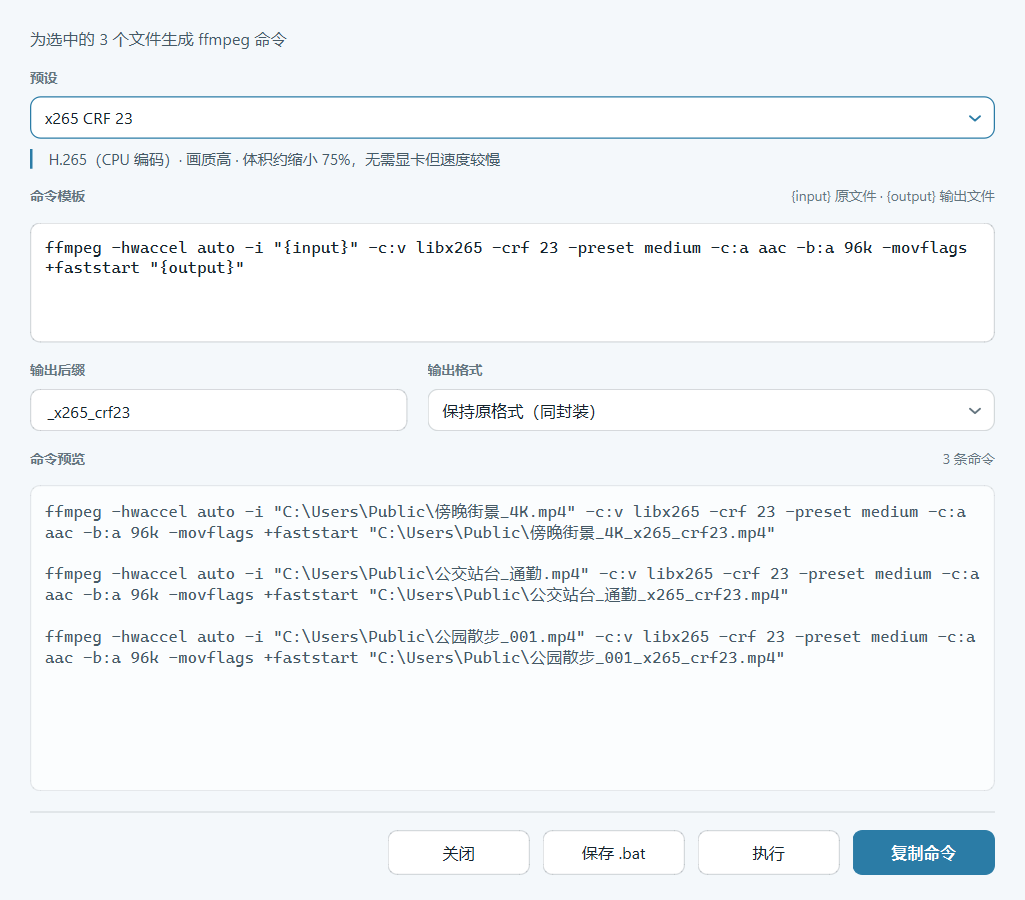
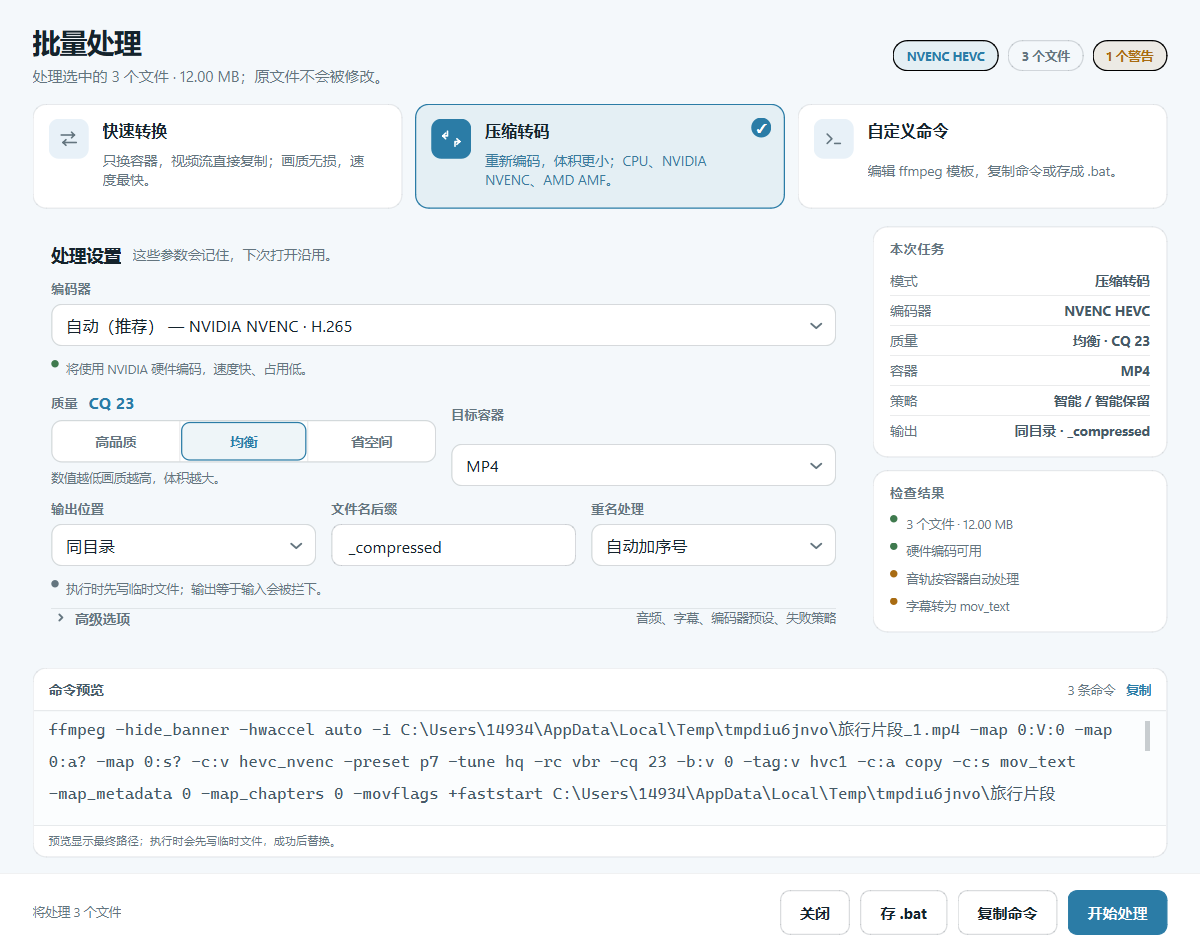
Document custom labels and batch processing in the README

diff --git a/README.md b/README.md
@@ -10,12 +10,12 @@
 
 <p align="center">
   <b>Find the clip you need by what's in it.</b><br>
-  Scan a folder, auto-tag video and audio on your own machine, filter by content, and turn the selection into batch FFmpeg commands.
+  Scan a folder, auto-tag video and audio on your own machine (GPU or CPU), filter by content, and process the selection with FFmpeg — remux, compress, or run your own command.
 </p>
 
 <p align="center">
   <b>按画面内容，找到你要的那条素材。</b><br>
-  扫描文件夹，本机给每个视频、音频打内容标签，按标签筛选，再把勾选的文件变成批量 FFmpeg 命令。
+  扫描文件夹，本机给每个视频、音频打内容标签（GPU 或 CPU），按标签筛选，再用 FFmpeg 批量处理：转封装、压缩，或跑你自己的命令。
 </p>
 
 <p align="center">
@@ -28,7 +28,7 @@
 </p>
 
 <p align="center">
-  <img src="docs/screenshots/demo.gif" alt="Scan a folder, tag clips with local AI, filter by tag, and generate batch FFmpeg commands" width="880">
+  <img src="docs/screenshots/demo.gif" alt="Scan a folder, tag clips with local AI, filter by tag, and process the selection with FFmpeg" width="880">
 </p>
 
 <p align="center">
@@ -37,8 +37,9 @@
 
 **Why people use it / 为什么用它**
 
-- **Your archive becomes searchable.** Tag clips by people, vehicles, pets, food, screens, scenes and shot size — locally with YOLOv8n, or through any OpenAI-compatible vision model. / **素材库变得可搜索**：人物、车辆、宠物、食物、屏幕、场景、景别，本地模型或任意 OpenAI 格式视觉模型都能打标。
-- **From "find it" to "done" in one window.** Filter by tag, tick what you need, and copy / save / run FFmpeg commands without writing a single filter string. / **从找到到处理只用一个窗口**：按标签筛选，勾选后直接复制、保存或执行 FFmpeg 命令。
+- **Your archive becomes searchable.** Tag clips by people, vehicles, pets, food, screens, scenes and shot size — locally with YOLOv8n (GPU or CPU), or through any OpenAI-compatible vision model. / **素材库变得可搜索**：人物、车辆、宠物、食物、屏幕、场景、景别，本地模型（GPU 或 CPU）或任意 OpenAI 格式视觉模型都能打标。
+- **From "find it" to "done" in one window.** Filter by tag, tick what you need, then remux, compress with CPU / NVIDIA NVENC / AMD AMF, or run a custom FFmpeg template — with a command preview, live progress and a result summary. / **从找到到处理只用一个窗口**：按标签筛选，勾选后直接转封装、用 CPU / NVIDIA NVENC / AMD AMF 压缩，或跑自定义 FFmpeg 模板；每一步都有命令预览、实时进度和结果汇总。
+- **Labels that speak your workflow.** Add up to 10 of your own labels — `踢足球`, `露营`, `王者荣耀` — and hybrid / cloud tagging will look for them. Local-only mode stays completely offline. / **标签按你的工作流来**：最多添加 10 个自定义标签（踢足球、露营、王者荣耀……），混合 / 全云端识别会专门找它们；纯本地模式仍然完全离线。
 - **Nothing leaves your machine unless you say so.** Scanning and local tagging are offline; uploads wait behind a confirmation card, and the API key is DPAPI-encrypted. / **素材默认不出本机**：扫描与本地识别全程离线，上传前必须确认，API Key 用 DPAPI 加密。
 
 > If this saves you time, a ⭐ helps other editors find it. / 如果它帮你省了时间，点个 ⭐ 能让更多剪辑同行看到。
@@ -51,9 +52,9 @@
 | --- | --- |
 | ![Main window, light theme](docs/screenshots/main-light.png) | ![Main window, dark theme](docs/screenshots/main-dark.png) |
 
-| Batch FFmpeg commands / 批量命令 | Settings · tags / 设置·标签 |
+| Batch processing / 批量处理 | Settings · tags / 设置·标签 |
 | --- | --- |
-| ![Batch command dialog](docs/screenshots/batch.png) | ![Settings, tags tab](docs/screenshots/settings.png) |
+| ![Batch processing dialog](docs/screenshots/batch.png) | ![Settings, tags tab](docs/screenshots/settings.png) |
 
 Real screenshots from the running app (local AI, 14 demo files). / 截图直接来自运行中的程序（本地 AI 识别，14 个演示文件）。
 
@@ -75,17 +76,75 @@ Keep the `ffmpeg` folder next to `MediaFilter.exe`; the app finds it automatical
 
 - Recursively scans a folder and reads real metadata with `ffprobe`: size, duration, video and audio bitrate, format, modification time.
 - Shows everything in a sortable, filterable table with checkboxes and live totals (file count, total duration, total size).
-- **Optional AI tagging** — label videos by what is actually in them: people, screens, food, pets, vehicles, scenery, shot size, technical traits. Run it fully local with YOLOv8n (8 of the 26 built-in tags: people, vehicles, cats, dogs, food, screens, computers, phones), local-first with a cloud fallback (hybrid), or fully in the cloud (all 26 tags). Results are cached per file.
-- **Batch FFmpeg** — pick an x265 / NVENC preset, then copy the commands, save them as a `.bat`, or run them in place.
-- Format conversion (stream copy or re-encode), TXT report export, light / dark / system themes, Chinese and English UI.
+- **Optional AI tagging** — label videos by what is actually in them: people, screens, food, pets, vehicles, scenery, shot size, technical traits. Local YOLOv8n runs on the GPU through ONNX Runtime DirectML (NVIDIA, AMD and Intel) with a CPU fallback, and recognises 8 of the 26 built-in tags; hybrid keeps the local result and sends only likely candidates to the cloud; cloud mode covers all 26. Cats, dogs and cars can also get colour tags (`黑猫`, `白狗`, `白车`). Your own labels sit alongside the built-ins — see [Custom labels](#custom-labels--自定义标签). Results are cached per file.
+- **Batch processing** — one dialog with three tasks: fast remux, compression (x265 / x264, NVIDIA NVENC, AMD AMF, auto-detected with a CPU fallback) and custom FFmpeg. It previews the exact command for every file, plans collision-safe output paths, shows live progress and summarises successes, failures and size savings. See [Batch processing](#batch-processing--批量处理).
+- TXT report export, light / dark / system themes, Chinese and English UI.
 
 **中文**
 
 - 递归扫描文件夹，用 `ffprobe` 读取真实元数据：大小、时长、音视频码率、格式、修改时间。
 - 一张可排序、可筛选的表格，带勾选和实时统计（文件数、总时长、总大小）。
-- **可选 AI 内容识别** —— 按画面内容打标签：人物、屏幕、食物、宠物、车辆、场景、景别、技术特征。支持纯本地（YOLOv8n，可识别 26 个内置标签中的 8 类：人物、车辆、猫、狗、食物、屏幕、电脑、手机）、本地先筛的混合模式、全云端（26 个标签全覆盖）三种跑法，结果按文件缓存。
-- **批量 FFmpeg** —— 选 x265 / NVENC 预设，复制命令、存成 `.bat`，或直接执行。
-- 格式转换（流拷贝或重编码）、导出 TXT 清单、浅色 / 深色 / 跟随系统主题、中英文界面。
+- **可选 AI 内容识别** —— 按画面内容打标签：人物、屏幕、食物、宠物、车辆、场景、景别、技术特征。本地 YOLOv8n 通过 ONNX Runtime DirectML 跑在显卡上（NVIDIA、AMD、Intel，失败自动回退 CPU），可识别 26 个内置标签中的 8 类；混合模式保留本地结果，只把可能命中的画面送云端；全云端覆盖 26 个标签。猫、狗、车还会带颜色标签（`黑猫`、`白狗`、`白车`）。内置标签之外还能加你自己的标签，见 [自定义标签](#custom-labels--自定义标签)；结果按文件缓存。
+- **批量处理** —— 一个对话框、三种任务：快速转换、压缩转码（x265 / x264、NVIDIA NVENC、AMD AMF，自动检测并支持 CPU 回退）、自定义 FFmpeg。会预览每个文件的实际命令，规划防冲突的输出路径，显示实时进度，结束后汇总成功、失败与体积变化，见 [批量处理](#batch-processing--批量处理)。
+- 导出 TXT 清单、浅色 / 深色 / 跟随系统主题、中英文界面。
+
+## Custom labels / 自定义标签
+
+The 26 built-in tags cover the common cases; custom labels cover the rest — a sport, a trip, a game, a client, a recurring shot. Add them in **Settings → 标签 → 我的标签 → 编辑**, or from the **＋ 我的标签** entry on the upload confirmation card.
+26 个内置标签覆盖常见内容；剩下的用自定义标签补——某项运动、某次旅行、某个游戏、某个客户、某个固定镜头。入口在 **设置 → 标签 → 我的标签 → 编辑**，上传确认卡上的 **＋ 我的标签** 也能直接改。
+
+- **Up to 10 labels, 20 characters each.** Paste a list separated by English or Chinese commas, `、`, semicolons, tabs or newlines; duplicates are removed case-insensitively (the first spelling wins). Drag the handle to reorder. / **最多 10 个，每个 20 字**。可以整段粘贴，用中英文逗号、`、`、分号、制表符或换行分隔；重复项按大小写不敏感去重（保留第一次的写法）。左侧手柄可拖动排序。
+- **Sent to the model exactly as written.** No stemming or merging: `明日方舟` and `明日方舟：终末地` are two independent labels. / **按你写的原样送给模型**，不做合并：`明日方舟` 和 `明日方舟：终末地` 是两个独立标签。
+- **Local mode does not use them.** The on-device YOLOv8n is a closed 8-tag set, so custom labels need hybrid or cloud mode. / **纯本地模式用不到它们**：本机 YOLOv8n 是固定的 8 类闭集，自定义标签需要混合或全云端模式。
+- **Hybrid mode** runs the local model first and, by default, uploads only files where the local pass found something; the cloud then adds your custom labels and the two sets are merged. Turn off “只上传可能命中「我的标签」的画面” to upload more frames (higher cost). With no custom labels at all, hybrid automatically falls back to local. / **混合模式**先跑本地模型，默认只上传本地已经识别出内容的文件，再由云端补自定义标签并合并结果；关闭「只上传可能命中「我的标签」的画面」会上传更多抽帧、费用更高。一个自定义标签都没有时，混合模式会自动退回纯本地。
+- **Cloud mode** uploads every sampled frame and asks for the built-in and custom labels together. / **全云端模式**上传全部抽帧，内置标签和自定义标签一起识别。
+- **Results are cached against the label set**, so adding or removing a label re-tags the files instead of serving stale results. / **缓存键包含标签集合**，增删标签会重新识别，而不是返回旧结果。
+
+Example / 示例：
+
+```text
+踢足球, 露营, 王者荣耀, 产品开箱
+```
+
+## Batch processing / 批量处理
+
+Version 0.2 merged the old **批量命令** and **格式转换** buttons into one **批量处理** dialog. Tick the files, open it, pick a task, check the command preview, then press **开始处理**. Every task uses the same output / progress / summary shell.
+0.2 把原来的 **批量命令** 和 **格式转换** 合并成一个 **批量处理** 对话框。勾选文件 → 打开 → 选任务 → 看命令预览 → **开始处理**。三种任务共用同一套输出、进度和结果汇总。
+
+### Tasks / 任务
+
+| Task / 任务 | What it does / 做什么 |
+| --- | --- |
+| **快速转换 · Fast remux** | Copies the video stream into another container (`mp4`, `mkv`, `mov`, `webm`, `avi`, `flv`, `ts`, `m4v`); audio and subtitles are copied when compatible and converted when not. Lossless and the fastest option. / 视频流直接复制到新容器；音频和字幕能复制就复制，不兼容时自动转换。画质无损，速度最快。 |
+| **压缩转码 · Compress** | Re-encodes the video with the chosen encoder and quality tier. / 用选定编码器和画质档位重新编码，体积更小。 |
+| **自定义命令 · Custom FFmpeg** | Runs your own template with `{input}` and `{output}`; filters, watermarks, unusual arguments — all yours. / 用 `{input}` / `{output}` 占位符跑自己的模板：滤镜、水印、特殊参数都可以。 |
+
+### Encoders / 编码器
+
+| Family / 平台 | Encoders / 编码器 | Rate control / 码控 | Presets / 预设 |
+| --- | --- | --- | --- |
+| CPU | x265 (H.265), x264 (H.264) | CRF | medium / slow / faster |
+| NVIDIA NVENC | HEVC, H.264, AV1 | CQ (AV1 uses QP) | p7 / p6 / p5 |
+| AMD AMF | HEVC, H.264, AV1 | QP | quality / balanced / speed |
+
+Quality tiers are **高品质 / 均衡 / 省空间** (high / balanced / small); the actual CRF, CQ or QP number adapts to the encoder and is shown next to the tier. **Auto** prefers hardware HEVC (NVENC → AMF), then hardware H.264, then AV1, then x265 / x264; if a hardware encode fails, the file is retried on the CPU (the fallback switch is in advanced options). Only encoders that your FFmpeg build lists and your driver supports are offered.
+画质档位是 **高品质 / 均衡 / 省空间**，实际的 CRF / CQ / QP 数值随编码器变化并显示在档位旁边。**自动** 的优先顺序是硬件 HEVC（NVENC → AMF）→ 硬件 H.264 → AV1 → x265 / x264；硬件编码失败会对该文件改用 CPU 重试（高级选项里可关）。只有当前 FFmpeg 构建列出、且驱动支持的编码器才会出现。
+
+### Output and safety / 输出与安全
+
+- Output goes to the **same folder** or a **chosen folder**; each task has its own suffix (`_converted`, `_compressed`, `_out`). / 输出可以放**同目录**或**指定文件夹**；每个任务有自己的默认后缀（`_converted`、`_compressed`、`_out`）。
+- Name collisions can **add a number**, **skip existing files** or **overwrite with confirmation**. / 重名处理可选 **自动加序号**、**跳过已存在** 或 **覆盖（需确认）**。
+- Files are written to a temporary `.part` file and atomically replaced on success. **An input file is never written to**, even in overwrite mode. / 先写临时 `.part` 文件，成功后原子替换；**任何情况下都不会写入源文件**，覆盖模式也一样。
+- Advanced options: audio (**smart copy / copy / AAC 128k / Opus 128k / remove**), subtitles (**smart keep / remove**), target container, encoder preset, failure strategy (**continue / stop**), hardware fallback, and keeping chapters and metadata. / 高级选项：音频（**智能复制 / 复制原音轨 / 转 AAC 128k / 转 Opus 128k / 移除**）、字幕（**智能保留 / 移除**）、目标容器、编码器预设、失败策略（**继续下一个 / 停止**）、硬件回退，以及保留章节与元数据。
+- Custom mode executes the template **verbatim** — the app does not append audio, subtitle or metadata flags. Preview it and try a small batch first. / 自定义模式**按模板原样执行**，App 不会追加音频、字幕或元数据参数；先预览、先小批量试跑。
+
+### Preview, progress and results / 预览、进度与结果
+
+The dialog shows the exact FFmpeg command for every file and lets you copy it or save all commands as a `.bat`. While running it shows an overall progress bar plus the current file, supports cancel (it stops after the current file), and ends with a summary: succeeded / failed / skipped, total time, size saved, the failure list (copyable) and a button to open the output folder.
+对话框会显示每个文件的实际 FFmpeg 命令，可复制，也可把全部命令存成 `.bat`。执行时显示总进度和当前文件，支持取消（当前文件结束后停止）；结束后汇总成功 / 失败 / 跳过、总耗时、体积变化、可复制的失败清单，以及打开输出目录的按钮。
+
+A complete FFmpeg build is required. Hardware encoding needs an FFmpeg build with NVENC / AMF and a current GPU driver; otherwise use CPU or leave the encoder on **Auto**.
+需要完整的 FFmpeg。硬件编码要求 FFmpeg 带 NVENC / AMF，并且显卡驱动较新；不满足时选 CPU，或把编码器留在 **自动**。
 
 ## Install from source / 从源码安装
 
@@ -175,6 +234,7 @@ Or double-click `run.bat` after step 4. Pass a folder to scan it right away: `.v
 
 - **`ffprobe not found`** — FFmpeg is missing or not on `PATH`. Install it, put it in `C:\ffmpeg\bin`, and restart the app. Without it scanning cannot start.
 - **`AI model not found`** — the local ONNX file is missing. Set its path in Settings; scanning and cloud tagging still work.
+- **No NVIDIA / AMD encoder in the list** — your FFmpeg build lacks NVENC / AMF, or the GPU driver is missing or too old. Install a full FFmpeg build and update the driver, or use **Auto** / CPU, which always works.
 - **Qt platform plugin error** — reinstall PySide6 in the venv (`pip install --force-reinstall PySide6`) and make sure Python is 64-bit.
 - **`python` is not recognized** — use the `py` launcher, or reinstall Python with “Add Python to PATH”.
 - **Reset settings** — delete `%LOCALAPPDATA%\media-filter-v2\config.json`. This also removes the saved API key and custom labels.
@@ -184,6 +244,7 @@ Or double-click `run.bat` after step 4. Pass a folder to scan it right away: `.v
 
 - **提示找不到 `ffprobe`** —— FFmpeg 没装或不在 `PATH`。装好、放进 `C:\ffmpeg\bin`，然后重启程序；没有它扫描无法开始。
 - **提示找不到 AI 模型** —— 本地 ONNX 文件不存在。在设置里指定路径即可；扫描和云端识别不受影响。
+- **编码器列表里没有 NVIDIA / AMD** —— 当前 FFmpeg 构建不带 NVENC / AMF，或者显卡驱动缺失 / 太旧。换完整的 FFmpeg 构建并更新驱动；也可以直接用 **自动** 或 CPU，始终可用。
 - **Qt platform plugin 报错** —— 在虚拟环境里重装 PySide6，并确认 Python 是 64 位。
 - **`python` 不是内部或外部命令** —— 用 `py` 启动器，或重装 Python 时勾选 “Add Python to PATH”。
 - **重置设置** —— 删除 `%LOCALAPPDATA%\media-filter-v2\config.json`（会同时清掉 API Key 和自定义标签）。
@@ -199,7 +260,7 @@ $env:MEDIAFILTER_FFMPEG_DIR = "C:\ffmpeg\bin"   # a folder with ffmpeg.exe + ffp
 
 Output: `release\MediaFilter-<version>-win64\` and the matching `.zip`, plus its SHA-256. The exe is onefile; FFmpeg is copied beside it so each launch does not unpack another ~180 MB. Use a **shared** FFmpeg build (exe + DLLs) rather than the static "full" build — the static one adds ~560 MB to the package. / 输出便携目录和同名 zip，附 SHA-256。exe 为单文件，FFmpeg 放在旁边，避免每次启动重复解压。请使用**共享库版** FFmpeg（exe + DLL），静态完整版会让包体多出约 560 MB。
 
-Official releases are built by CI, not by hand: bump the version in `pyproject.toml`, add the matching `CHANGELOG.md` section, then push a tag (`git tag v0.1.2 && git push origin v0.1.2`). The workflow runs tests, downloads the pinned FFmpeg/model (SHA-256 checked), builds the zip, writes release notes and publishes the Release. See [packaging/README.md](packaging/README.md). / 正式版本由 CI 构建：改版本号、补 CHANGELOG、推一个 `v*` 标签即可，测试、构建、校验、发布和 winget PR 都自动完成。
+Official releases are built by CI, not by hand: bump the version in `pyproject.toml`, add the matching `CHANGELOG.md` section, then push a tag (`git tag v0.2.1 && git push origin v0.2.1`). The workflow runs tests, downloads the pinned FFmpeg/model (SHA-256 checked), builds the zip, writes release notes and publishes the Release; it also submits a winget PR when the `WINGET_TOKEN` secret is configured. See [packaging/README.md](packaging/README.md). / 正式版本由 CI 构建：改版本号、补 CHANGELOG、推一个 `v*` 标签即可，测试、构建、校验和发布都自动完成；配置了 `WINGET_TOKEN` 时还会自动提 winget PR。
 
 ### Tests and type checking / 测试与类型检查
 
@@ -209,7 +270,7 @@ Official releases are built by CI, not by hand: bump the version in `pyproject.t
 .venv\Scripts\python.exe -m pyright
 ```
 
-128 pytest cases run headless (`QT_QPA_PLATFORM=offscreen`), and pyright reports zero errors against `pyrightconfig.json`. Both steps also run on GitHub Actions for every push and pull request. / 共 128 个用例，可在无显示器环境运行；pyright 按仓库内的 `pyrightconfig.json` 检查，0 错误。两步都已接入 GitHub Actions。
+196 pytest cases run headless (`QT_QPA_PLATFORM=offscreen`), and pyright reports zero errors against `pyrightconfig.json`. Both steps also run on GitHub Actions for every push and pull request. / 共 196 个用例，可在无显示器环境运行；pyright 按仓库内的 `pyrightconfig.json` 检查，0 错误。两步都已接入 GitHub Actions。
 
 ## How to use / 如何使用
 
@@ -217,8 +278,8 @@ After installation / 安装完成后：
 
 1. **Scan** — click 「打开文件夹」 and choose a folder. The scan runs in the background and can be cancelled. Filter by format, tag or file name; click any column header to sort.
 2. **Tag with AI (optional)** — click **AI 识别**. Local mode stays entirely on your machine; hybrid and cloud modes need an API endpoint and key in Settings. The caret next to the button switches mode. Nothing is uploaded before the confirmation card.
-3. **Batch commands** — tick the files, open 「批量命令」, choose a preset, then copy, save or run. 「格式转换」 uses the same flow with a container / stream-copy choice.
-4. **Settings** — the gear opens default recognition mode, API key (stored only on this machine and masked everywhere), model selection, the 26 built-in tags, custom labels, and sampling / upload options.
+3. **Batch processing** — tick the files and open 「批量处理」. Choose **快速转换** for a lossless container swap, **压缩转码** for x265 / x264 / NVIDIA NVENC / AMD AMF, or **自定义命令** to run an FFmpeg template. Check the preview, then press **开始处理**; commands can be copied or saved as a `.bat`.
+4. **Settings** — default recognition mode, GPU / CPU device, API key (stored only on this machine and masked everywhere), model selection, the 26 built-in tags, custom labels (up to 10), colour tags, and sampling / upload options.
 
 Full guide: [使用文档.md](使用文档.md) · Changes: [CHANGELOG.md](CHANGELOG.md) · Contributing: [CONTRIBUTING.md](CONTRIBUTING.md) · Security: [SECURITY.md](SECURITY.md)
 
@@ -226,18 +287,18 @@ Full guide: [使用文档.md](使用文档.md) · Changes: [CHANGELOG.md](CHANGE
 
 1. **扫描** —— 点「打开文件夹」选目录，后台扫描可随时取消；按格式、标签、文件名筛选，点列头排序。
 2. **AI 识别（可选）** —— 点 **AI 识别**。本地模式完全在本机推理；混合 / 全云端需要在设置里填接口地址和 Key。按钮右侧箭头切换模式，上传前一定会弹确认卡。
-3. **批量命令** —— 勾选文件，打开「批量命令」，选预设后复制命令、存为 `.bat` 或直接执行。「格式转换」是同一流程里的容器与流拷贝选择。
-4. **设置** —— 齿轮里可以改默认识别方式、API Key（只存本机、界面与日志全部打码）、模型、26 个内置标签、自定义标签，以及抽帧和上传选项。
+3. **批量处理** —— 勾选文件，打开「批量处理」。**快速转换**只换容器、无损；**压缩转码**可选 x265 / x264 / NVIDIA NVENC / AMD AMF；**自定义命令**跑你自己的 FFmpeg 模板。确认命令预览后点 **开始处理**；命令也可以复制或存成 `.bat`。
+4. **设置** —— 默认识别方式、GPU / CPU 设备、API Key（只存本机、界面与日志全部打码）、模型、26 个内置标签、自定义标签（最多 10 个）、颜色标签，以及抽帧和上传选项。
 
 ## Tech at a glance / 技术一览
 
 **English**
 
-Python 3.10+ with a PySide6 / Qt6 desktop shell (Fusion plus token-driven QSS themes and a model/view table). Scanning calls `ffprobe` from a cancellable thread pool; FFmpeg commands are built as plain data in `core/`, kept apart from the UI. AI tagging is an optional extra: frames are piped from `ffmpeg` into ONNX Runtime with a YOLOv8n model, and cloud modes work with any OpenAI-compatible `/v1/models` endpoint. Config is JSON; the API key is encrypted with Windows DPAPI; a rotating log is written next to the config for support. 128 pytest cases and a pyright pass cover the core logic.
+Python 3.10+ with a PySide6 / Qt6 desktop shell (Fusion plus token-driven QSS themes and a model/view table). Scanning calls `ffprobe` from a cancellable thread pool; FFmpeg work is built as plain data in `core/batch.py` (encoder specs, output planning, collision handling) and executed by `core/batch_exec.py`, kept apart from the UI. AI tagging is an optional extra: frames are piped from `ffmpeg` into ONNX Runtime with a YOLOv8n model, using the DirectML provider on the GPU and falling back to CPU; cloud modes work with any OpenAI-compatible `/v1/models` endpoint. Config is JSON; the API key is encrypted with Windows DPAPI; a rotating log is written next to the config for support. 196 pytest cases and a pyright pass cover the core logic.
 
 **中文**
 
-Python 3.10+，界面为 PySide6 / Qt6（Fusion + token 驱动的 QSS 主题、model/view 表格）。扫描在可取消的线程池里调用 `ffprobe`；FFmpeg 命令在 `core/` 里以纯数据构建，和界面解耦。AI 识别是可选依赖：`ffmpeg` 管道抽帧，ONNX Runtime 跑 YOLOv8n；抽帧强度在本地和云端共用一套帧数策略。云端模式兼容任意 OpenAI 格式的 `/v1/models` 接口。配置是 JSON，API Key 用 Windows DPAPI 加密，配置旁边写循环日志便于排查问题。128 个 pytest 用例与 pyright 检查覆盖核心逻辑。
+Python 3.10+，界面为 PySide6 / Qt6（Fusion + token 驱动的 QSS 主题、model/view 表格）。扫描在可取消的线程池里调用 `ffprobe`；FFmpeg 相关逻辑在 `core/batch.py` 里以纯数据构建（编码器规格、输出规划、重名处理），由 `core/batch_exec.py` 执行，和界面解耦。AI 识别是可选依赖：`ffmpeg` 管道抽帧，ONNX Runtime 跑 YOLOv8n，优先用 DirectML 走显卡、失败回退 CPU；抽帧强度在本地和云端共用一套帧数策略。云端模式兼容任意 OpenAI 格式的 `/v1/models` 接口。配置是 JSON，API Key 用 Windows DPAPI 加密，配置旁边写循环日志便于排查问题。196 个 pytest 用例与 pyright 检查覆盖核心逻辑。
 
 ## License / 许可
 
